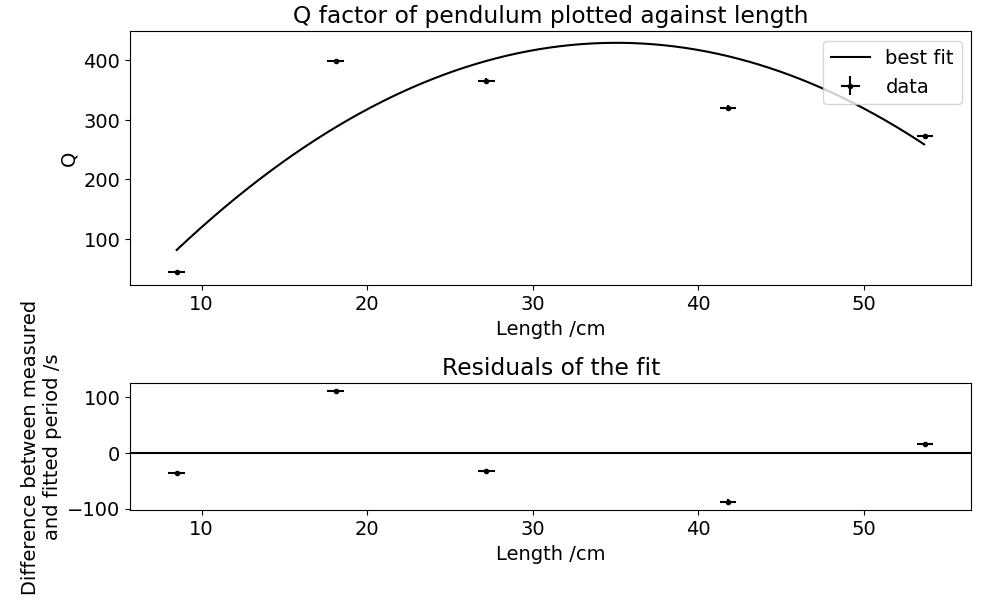
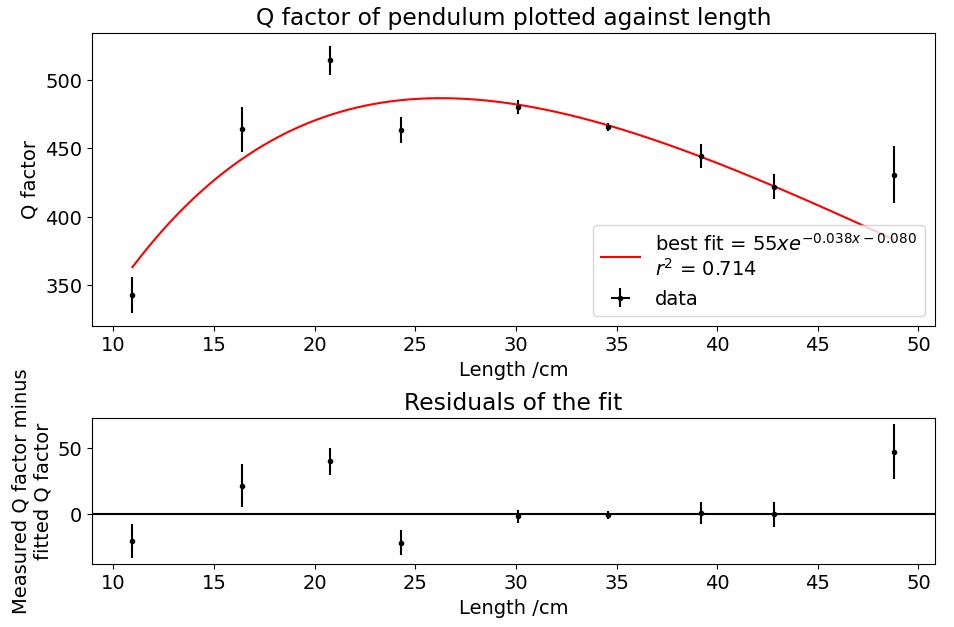
finally found a way to "model" q factor

diff --git a/plotting/fit_qfactor.py b/plotting/fit_qfactor.py
@@ -37,6 +37,8 @@ import scipy.optimize as optimize
 import numpy as np
 import matplotlib.pyplot as plt
 from pylab import loadtxt
+from sklearn.metrics import r2_score
+
 
 def damped_sinusoid(t, a, tau, T, phi):
     return a*np.exp(-t/tau)*np.cos(2*np.pi*t/T+phi)
@@ -55,6 +57,9 @@ def powerlaw(t, a, b):
 
 def powerseries(rad, T0, B, C):
     return T0 * (1 + B*rad + C*rad**2)
+
+def crit_damped(x, a, b, c):
+    return (b*x)*np.exp(-c*(x - a/b))
 """
 The above five functions should be all you need for PHY180
 The first line in main() is where you choose which function you want to use
@@ -65,7 +70,7 @@ highlighted by comments that look like:
 """
 
 def main():
-    my_func = quadratic
+    my_func = crit_damped
     # Change to whichever of the 5 functions you want to fit
 
     plt.rcParams.update({'font.size': 14})
@@ -93,8 +98,8 @@ def main():
     Initial guess of a, b, c
     def powerseries(rad, T0, B, C):
     '''
-    init_guess = (-0.5, 30, -50)
-
+    # init_guess = (-0.5, 30, -50)
+    init_guess = (-100, 78, 0.05)
     # init_guess = (0.55, 100.0, 1.667, 0.0)
     # Your initial guess of (a, tau, T, phi)
     # For sinusoidal functions, guessing T correctly is critically important
@@ -106,14 +111,14 @@ def main():
 
 ########### HERE!!! ##############
 
-    A=popt[0]
-    B=popt[1]
-    C=popt[2]
+    a=popt[0]
+    b=popt[1]
+    c=popt[2]
     # phi=popt[3]
     # best fit values are named nicely
-    u_T0=pcov[0,0]**(0.5)
-    u_B=pcov[1,1]**(0.5)
-    u_C=pcov[2,2]**(0.5)
+    u_a=pcov[0,0]**(0.5)
+    u_b=pcov[1,1]**(0.5)
+    u_c=pcov[2,2]**(0.5)
     # u_phi=pcov[3,3]**(0.5)
     # uncertainties of fit are named nicely
 
@@ -134,16 +139,18 @@ def main():
     # Plot the data with error bars, fmt makes it data points not a line, label is
     # a string which will be printed in the legend, you should edit this string.
 
-    ax1.plot(xs, curve, label="best fit", color="black")
+    rsq = r2_score(ydata, [crit_damped(i, a, b, c) for i in xdata])
+
+    ax1.plot(xs, curve, label=f"best fit = $55xe^{{-0.038x-0.080}}$\n$r^2$ = {rsq:.3f}", color="red")
     # Plot the best fit curve on top of the data points as a line.
     # NOTE: you may want to change the value of label to something better!!
 
-    ax1.legend(loc='upper right')
+    ax1.legend(loc='lower right')
     # Prints a box using what's in the "label" strings in the previous two lines.
     # loc specifies the location
 
     ax1.set_xlabel("Length /cm")
-    ax1.set_ylabel("Q")
+    ax1.set_ylabel("Q factor")
     ax1.set_title("Q factor of pendulum plotted against length")
     # Here is where you change how your graph is labelled.
 
@@ -153,9 +160,9 @@ def main():
 
 ########### HERE!!! ##############
 
-    print("T0:", A, "+/-", u_T0)
-    print("B:", B, "+/-", u_B)
-    print("C:", C, "+/-", u_C)
+    print("a:", a, "+/-", u_a)
+    print("b:", b, "+/-", u_b)
+    print("c:", c, "+/-", u_c)
     # print("phi:", phi, "+/-", u_phi)
     # prints the various values with uncertainties
     # This is printed to your screen, not on the graph.
@@ -170,7 +177,7 @@ def main():
     # Plot the y=0 line for context.
 
     ax2.set_xlabel("Length /cm")
-    ax2.set_ylabel("Difference between measured and fitted period /s", wrap=True)
+    ax2.set_ylabel("Measured Q factor minus fitted Q factor", wrap=True)
     ax2.set_title("Residuals of the fit")
     # Here is where you change how your graph is labelled.
 
